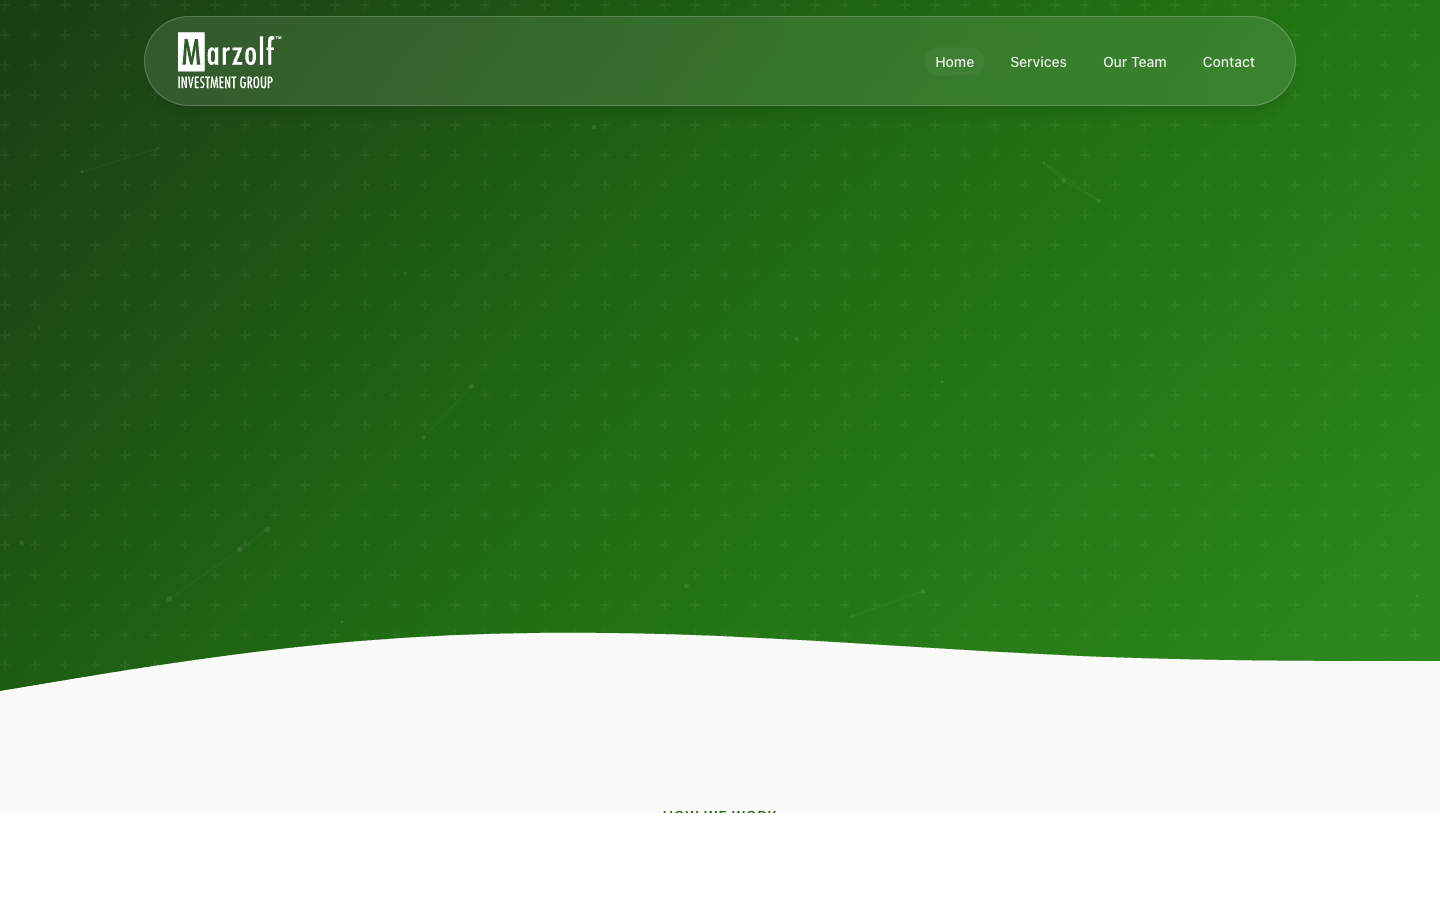
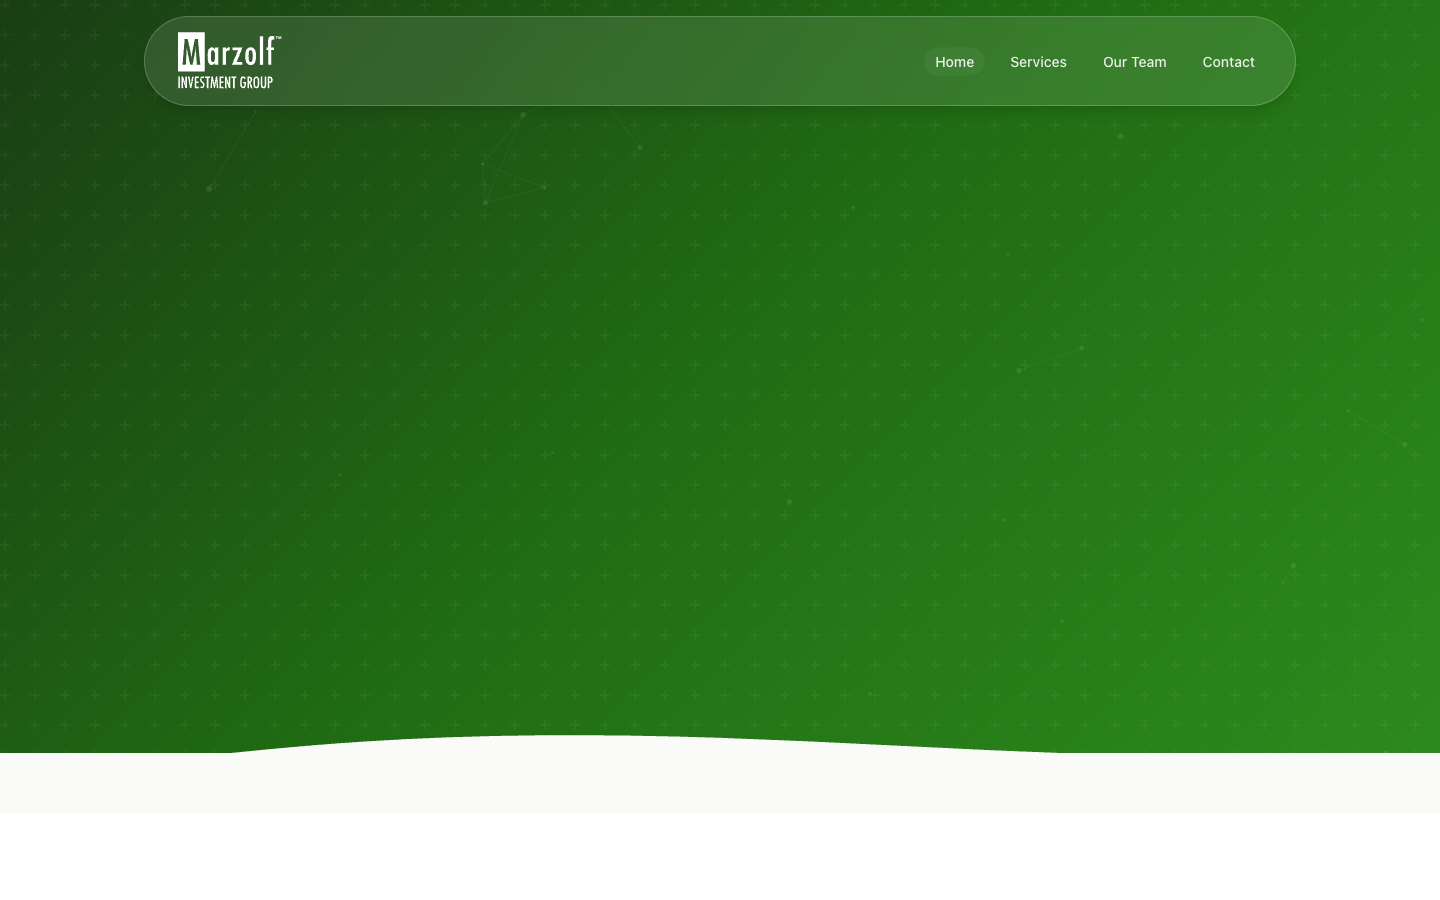
Fix scroll jump on nav click, improve wave positioning with proper spacing from trust badges

Changed region(s): [[0.0, 0.6844, 1.0, 0.84]]

diff --git a/web/app/themes/marzolf-theme/resources/views/front-page.blade.php b/web/app/themes/marzolf-theme/resources/views/front-page.blade.php
@@ -44,7 +44,7 @@
           </div>
           
           {{-- Trust Indicators --}}
-          <div class="hero-trust mt-10 flex flex-wrap items-center gap-4 text-green-100/80 pb-8">
+          <div class="hero-trust mt-10 flex flex-wrap items-center gap-4 text-green-100/80 pb-24">
             <div class="trust-badge flex items-center gap-2 bg-white/10 backdrop-blur-sm px-4 py-2 rounded-full opacity-0 transform translate-y-4">
               <svg class="w-5 h-5" fill="currentColor" viewBox="0 0 20 20">
                 <path fill-rule="evenodd" d="M6.267 3.455a3.066 3.066 0 001.745-.723 3.066 3.066 0 013.976 0 3.066 3.066 0 001.745.723 3.066 3.066 0 012.812 2.812c.051.643.304 1.254.723 1.745a3.066 3.066 0 010 3.976 3.066 3.066 0 00-.723 1.745 3.066 3.066 0 01-2.812 2.812 3.066 3.066 0 00-1.745.723 3.066 3.066 0 01-3.976 0 3.066 3.066 0 00-1.745-.723 3.066 3.066 0 01-2.812-2.812 3.066 3.066 0 00-.723-1.745 3.066 3.066 0 010-3.976 3.066 3.066 0 00.723-1.745 3.066 3.066 0 012.812-2.812zm7.44 5.252a1 1 0 00-1.414-1.414L9 10.586 7.707 9.293a1 1 0 00-1.414 1.414l2 2a1 1 0 001.414 0l4-4z" clip-rule="evenodd"/>
@@ -238,8 +238,8 @@
       </script>
       
       {{-- Decorative Wave --}}
-      <div class="absolute bottom-0 left-0 right-0">
-        <svg viewBox="0 0 1440 120" fill="none" xmlns="http://www.w3.org/2000/svg">
+      <div class="absolute bottom-0 left-0 right-0 h-24 pointer-events-none" style="transform: translateY(30%);">
+        <svg viewBox="0 0 1440 120" fill="none" xmlns="http://www.w3.org/2000/svg" class="w-full h-full" preserveAspectRatio="none">
           <path d="M0 120L60 110C120 100 240 80 360 70C480 60 600 60 720 65C840 70 960 80 1080 85C1200 90 1320 90 1380 90L1440 90V120H1380C1320 120 1200 120 1080 120C960 120 840 120 720 120C600 120 480 120 360 120C240 120 120 120 60 120H0Z" fill="#fafaf9"/>
         </svg>
       </div>

diff --git a/web/app/themes/marzolf-theme/resources/views/sections/header.blade.php b/web/app/themes/marzolf-theme/resources/views/sections/header.blade.php
@@ -168,5 +168,26 @@
     }
     
     window.addEventListener('scroll', highlightNav, { passive: true });
+    
+    // Smooth scroll for nav links - prevent jump to top
+    document.querySelectorAll('a[href^="#"]').forEach(anchor => {
+      anchor.addEventListener('click', function (e) {
+        e.preventDefault();
+        const targetId = this.getAttribute('href');
+        if (targetId === '#') return;
+        
+        const targetElement = document.querySelector(targetId);
+        if (targetElement) {
+          const headerOffset = 100; // Account for floating header
+          const elementPosition = targetElement.getBoundingClientRect().top;
+          const offsetPosition = elementPosition + window.pageYOffset - headerOffset;
+          
+          window.scrollTo({
+            top: offsetPosition,
+            behavior: 'smooth'
+          });
+        }
+      });
+    });
   });
 </script>
